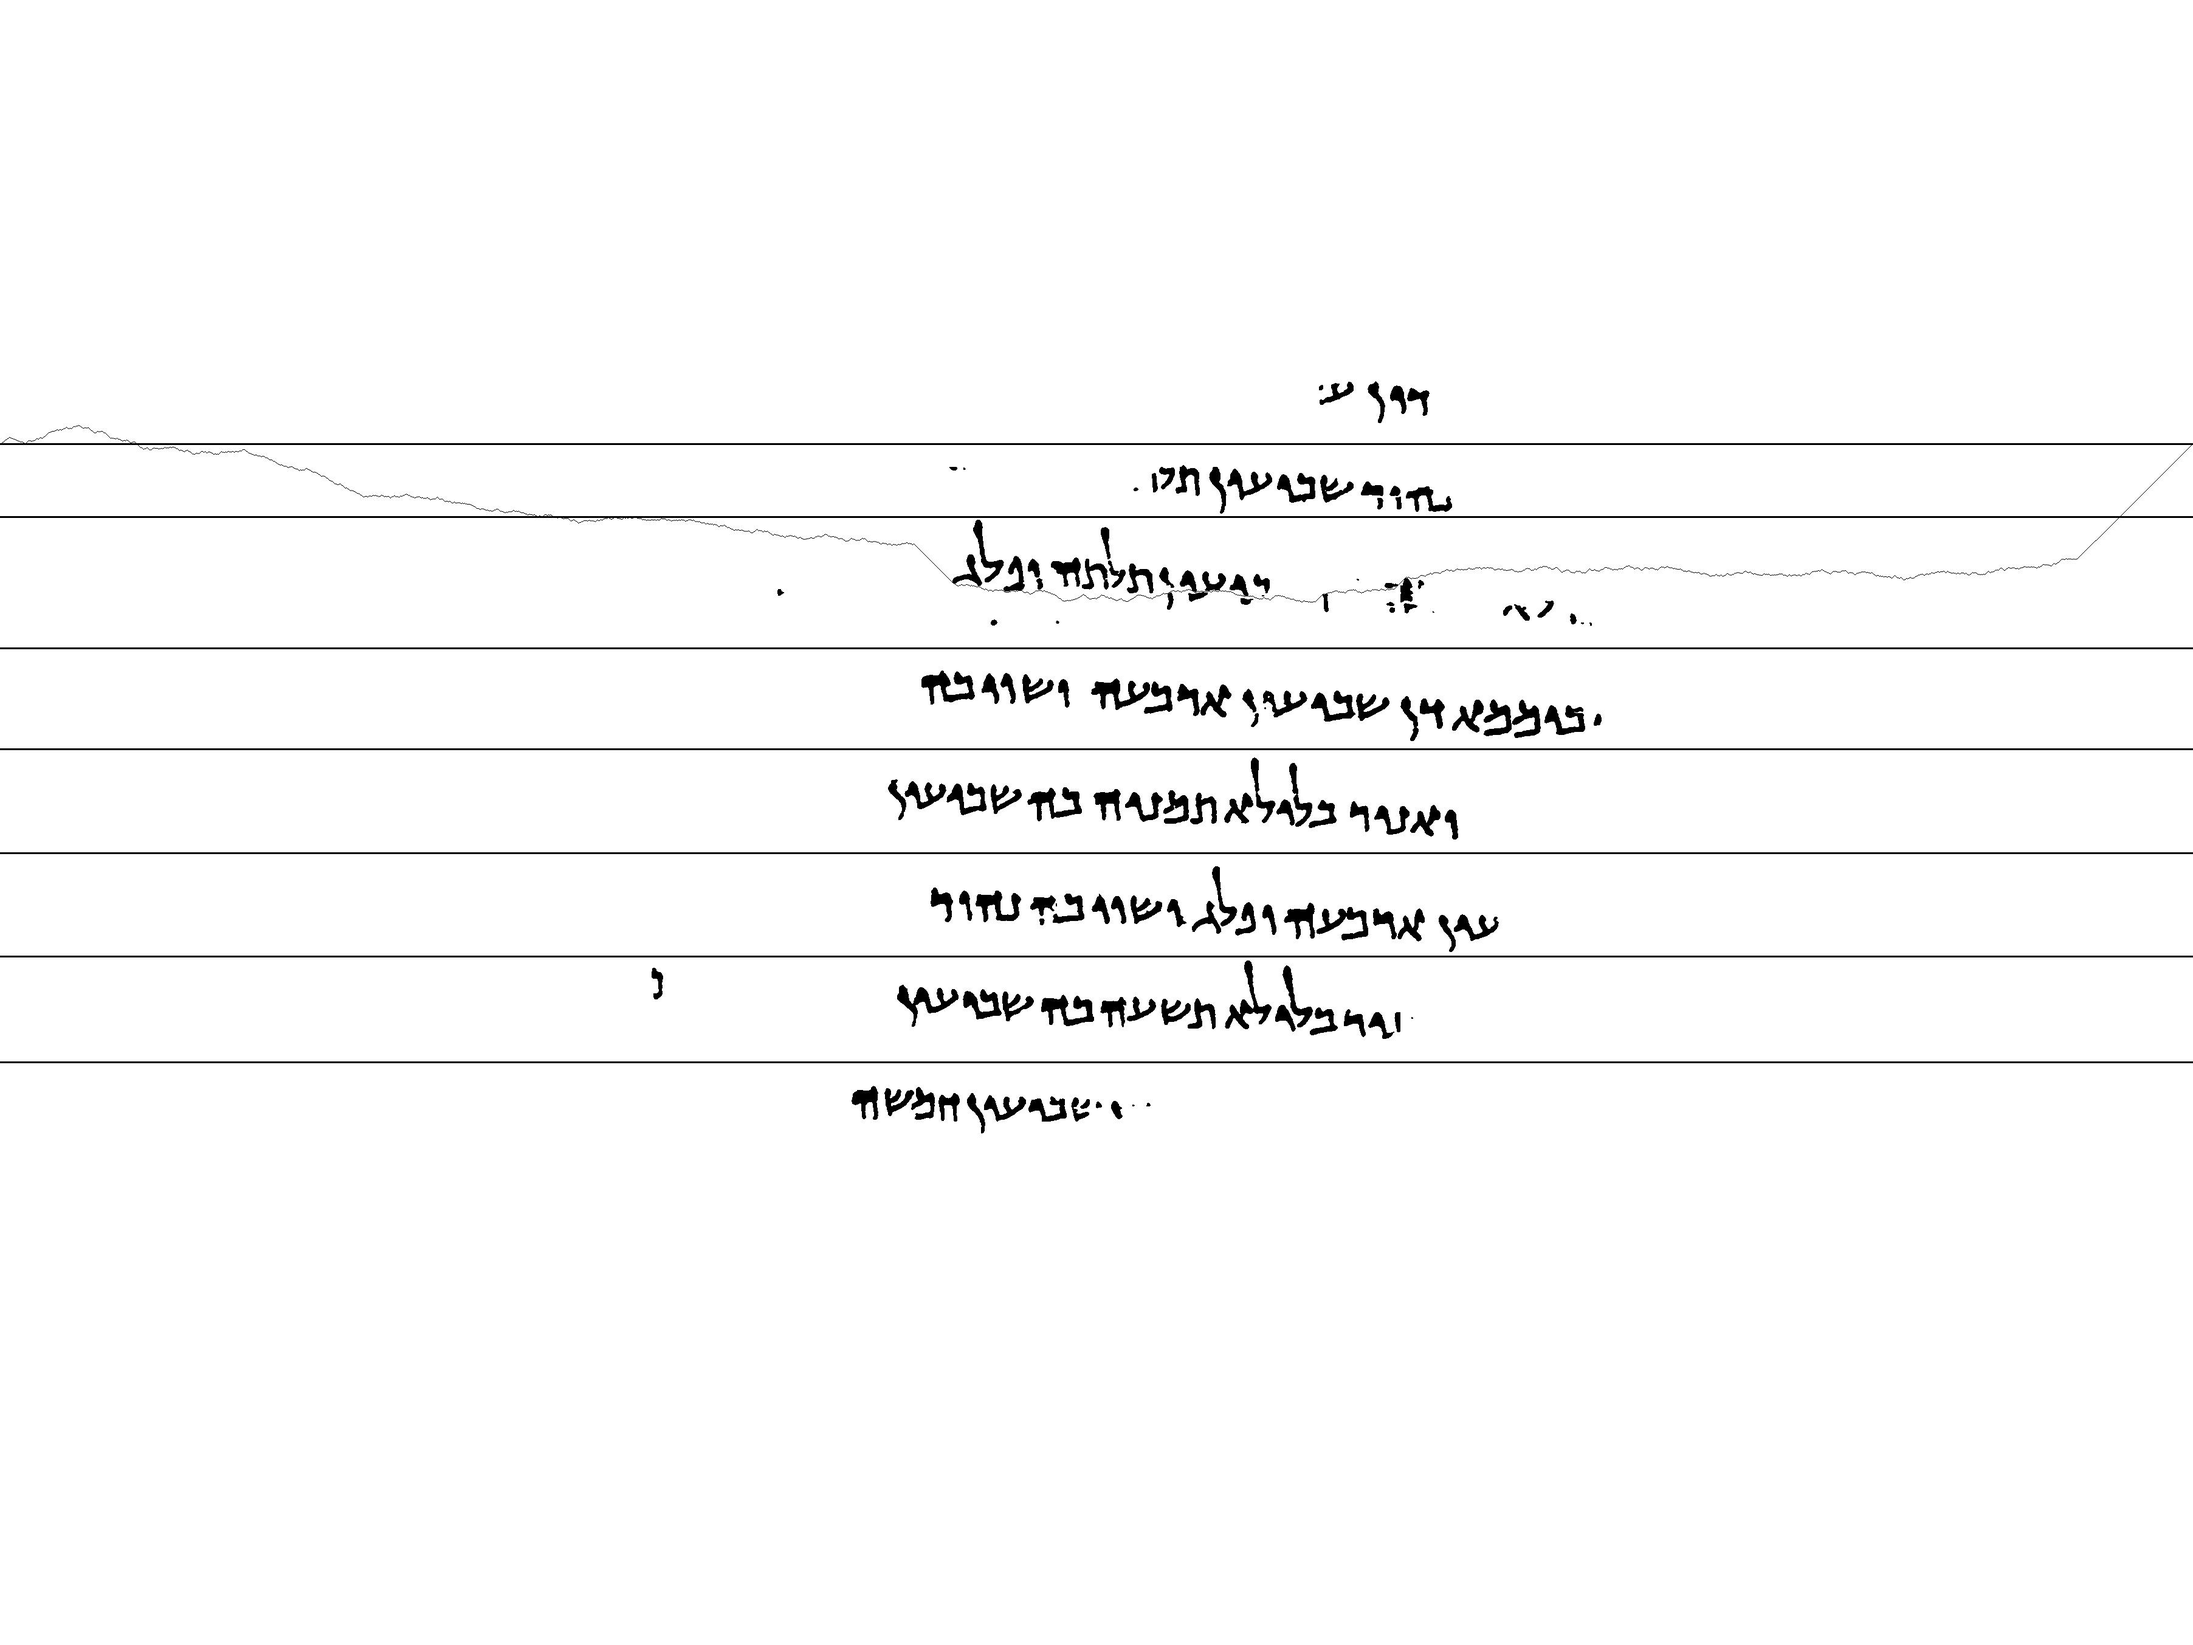
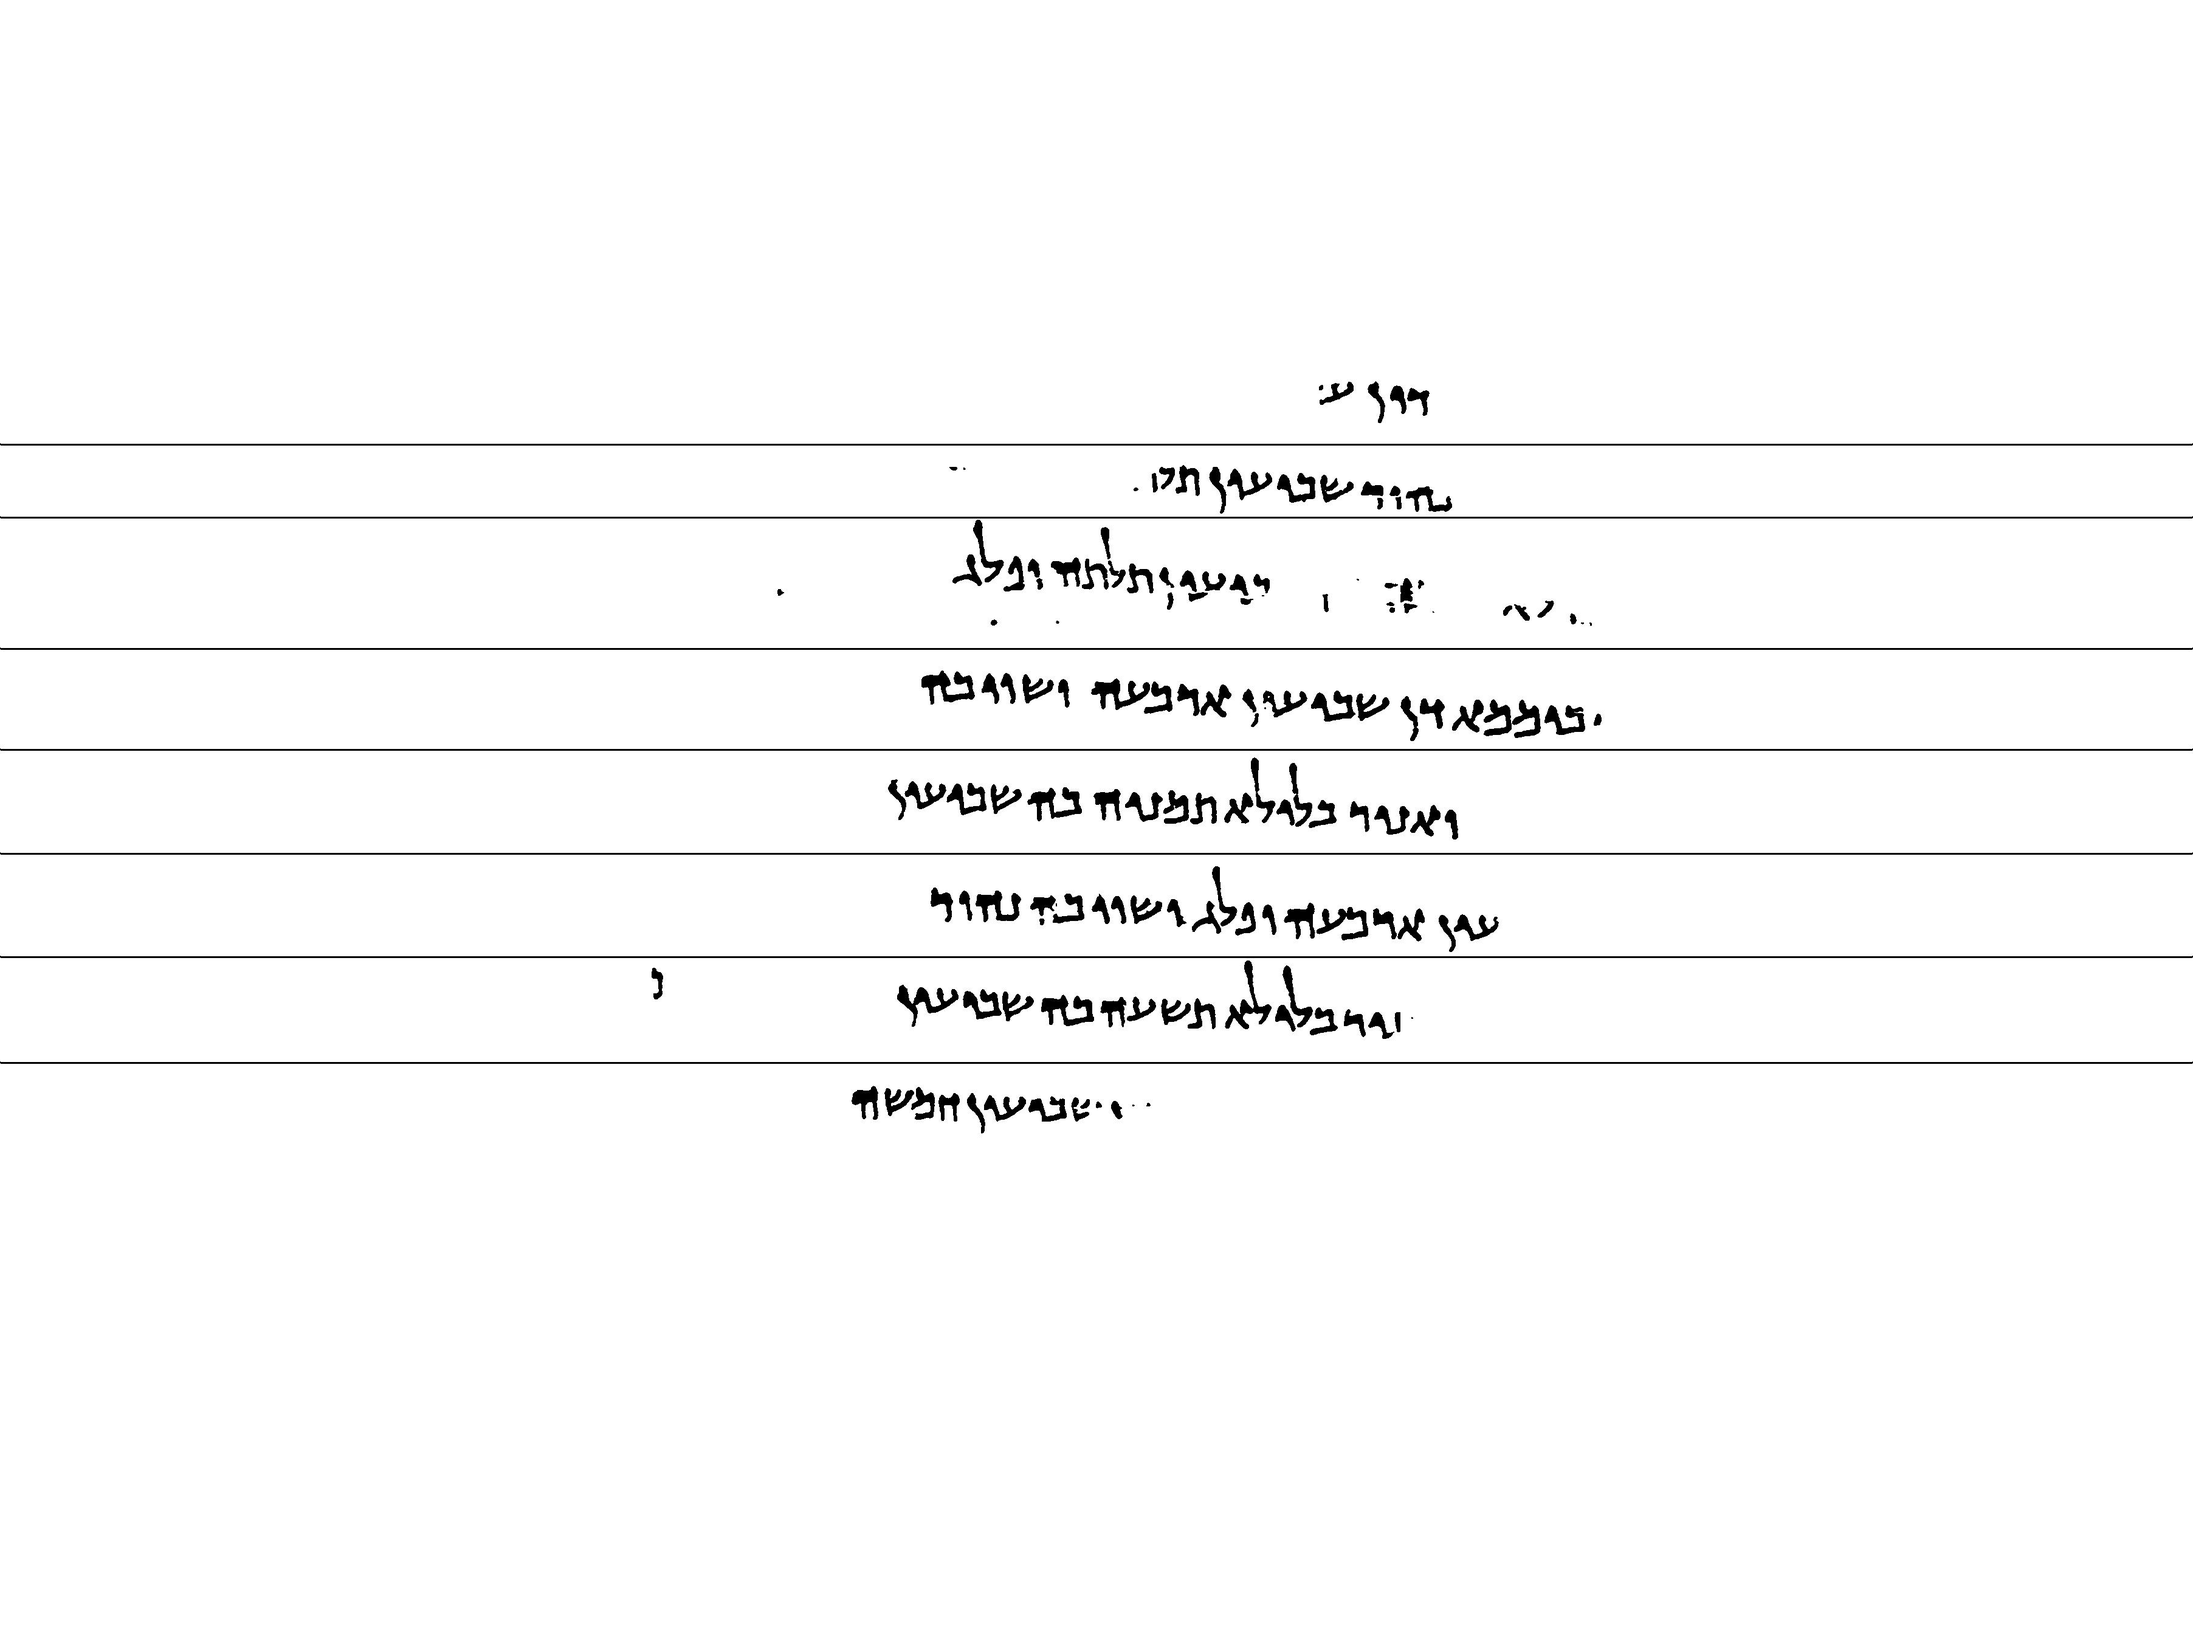
Finding curved paths causes queue to explode.

diff --git a/Preprocessor/pathing.py b/Preprocessor/pathing.py
@@ -32,7 +32,7 @@ def list_path(state):
     return list_path(state.parent) + [state.coords]
 
 
-def get_neighbors(state, data):
+def get_neighbors(state, data, goal):
     """
     Iteration method that yields all legal neighboring coordinates.
     :param state: State object to get neighbours for.
@@ -44,6 +44,9 @@ def get_neighbors(state, data):
     for d_row in [1, 0, -1]:
         new_row = state.coords[0] + d_row
         if new_row >= max_values[0] or new_row < 0:  # Don't look for out of bounds values
+            continue
+
+        if abs(new_row - goal[0]) >= 20:  # Don't stray more than 20 rows from target line
             continue
 
         columns = [1, 0] if d_row != 0 else [1]  # Don't check for zero-offset "neighbors"
@@ -58,7 +61,7 @@ def get_neighbors(state, data):
             yield new_row, new_column
 
 
-def get_move_cost(coords, neighbor, pixel, goal_height):
+def get_move_cost(coords, neighbor, pixel, goal):
     """
     For now, just give high cost to moving through black pixels.
     :param coords:
@@ -66,7 +69,7 @@ def get_move_cost(coords, neighbor, pixel, goal_height):
     :param pixel:
     :return:
     """
-    cost = 1
+    cost = 1 + abs(coords[0] - goal[0]) ^ 2
     # cost += 1000 if neighbor[0] != goal_height else 0
 
     return cost
@@ -92,6 +95,8 @@ def find_path(row, image):
     :return: 2D numpy array of coordinates describing the optimal path.
     """
 
+    print(f"Finding path for row {row}...")
+
     # Start and goal coordinates
     start = (row, 0)
     goal = (row, np.shape(image)[COLUMNS]-1)
@@ -107,8 +112,11 @@ def find_path(row, image):
     # Loop until all options are used up
     while not queue.empty():
 
-        if len(visited) % 100 == 0:
+        if len(visited) % 1000 == 0 and len(visited) != 0:
             print(len(visited))
+
+        if len(visited) > 30000:
+            exit(-1)
 
         # Get next state and add to visited set
         state = queue.get()
@@ -119,11 +127,11 @@ def find_path(row, image):
             return np.asarray(list_path(state))  # returns the array of coordinates
 
         # Check every possible direction
-        for neighbor in get_neighbors(state, image):
+        for neighbor in get_neighbors(state, image, goal):
 
             # Only handle unvisited neighbours
             if neighbor not in visited:
-                new_cost = state.cost + get_move_cost(state.coords, neighbor, image[neighbor[0], neighbor[1]], goal[0])
+                new_cost = state.cost + get_move_cost(state.coords, neighbor, image[neighbor[0], neighbor[1]], goal)
                 priority = new_cost + compute_heuristic(neighbor, goal)
                 new_state = State(neighbor, state, new_cost, priority)
                 queue.put(new_state)
@@ -138,7 +146,7 @@ if __name__ == '__main__':
     For testing purposes. Run the path-finding on a simple maze.
     """
 
-    data = np.full((5, 5), 255)
+    data = np.full((10, 10), 255)
     data[1:4, 2] = 0
 
     path = find_path(2, data)

diff --git a/Preprocessor/line_segmenter.py b/Preprocessor/line_segmenter.py
@@ -1,6 +1,7 @@
 import numpy as np
 import multiprocessing as mp
 import cv2
+import sys
 
 from PIL import Image
 from matplotlib import pyplot as plt
@@ -53,11 +54,13 @@ def find_line_starts(projection):
 
 if __name__ == '__main__':
 
+    sys.setrecursionlimit(10 ** 6)
     print("Number of processors: ", mp.cpu_count())
 
-    for i in range(0, 1):
+    for i in range(2, 3):
 
         # Load and binarize image
+        print(f"Working on image{i}")
         img = cv2.imread(f"../data/test{i}.jpg", 0)
         img_binarized = binarize_image(img)
 
@@ -67,8 +70,7 @@ if __name__ == '__main__':
         line_starts = find_line_starts(projection)
 
         # Generate segment lines per start position
-        segment_lines = [find_path(start, data) for start in line_starts[:1]]
-        print(segment_lines)
+        segment_lines = [find_path(start, data) for start in line_starts]
 
         # Show projection
         plt.plot(projection)
@@ -77,9 +79,16 @@ if __name__ == '__main__':
         plt.ylabel("Number of transitions")
         plt.xlabel("Pixel row number")
         plt.savefig(f"./results/test{i}-projection-minima.jpg")
-        plt.show()
 
-        # Add detected lines to image
-        line_starts += [start+1 for start in line_starts] + [start-1 for start in line_starts]
-        data[line_starts] = np.zeros(data.shape[COLUMNS])
+        for line in segment_lines:
+
+            # Add (dilated) lines to image
+            data[line[:, 0], line[:, 1]] = 0
+            data[line[:, 0]-1, line[:, 1]] = 0
+            data[line[:, 0]+1, line[:, 1]] = 0
+
+        # Reference lines
+        # line_starts += [start + 1 for start in line_starts] + [start - 1 for start in line_starts]
+        # data[line_starts] = np.zeros(data.shape[COLUMNS])
+
         out_segment_image = Image.fromarray(data).save(f"./results/test{i}_segmentlines.jpg")
